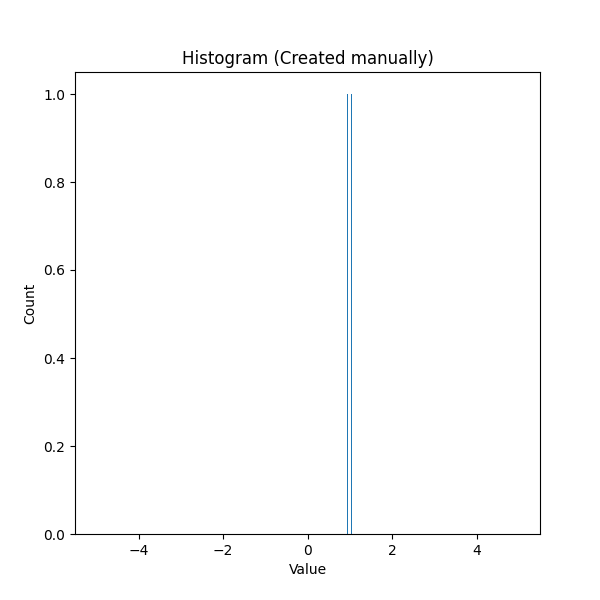
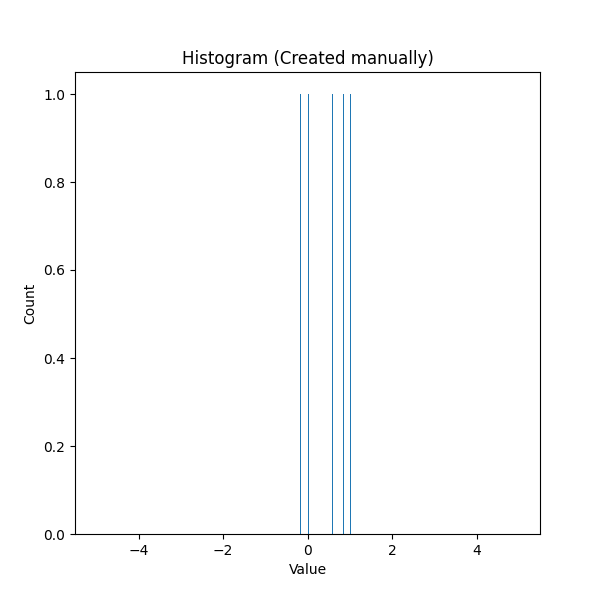
Save my local changes

Changed region(s): [[0.57, 0.15, 0.6, 0.9]]

diff --git a/Lab_1: Python_basics/Lab01_Q3.py b/Lab_1: Python_basics/Lab01_Q3.py
@@ -35,7 +35,7 @@ import matplotlib.pyplot as plt
 from time import time
 
 # Generate the amount of random samples (N = 10, 100, 1000, 10,000, 100,000, and 1,000,000)
-N = 10
+N = 1000
 nums = np.random.randn(N)
 
 # Building histogram manually
